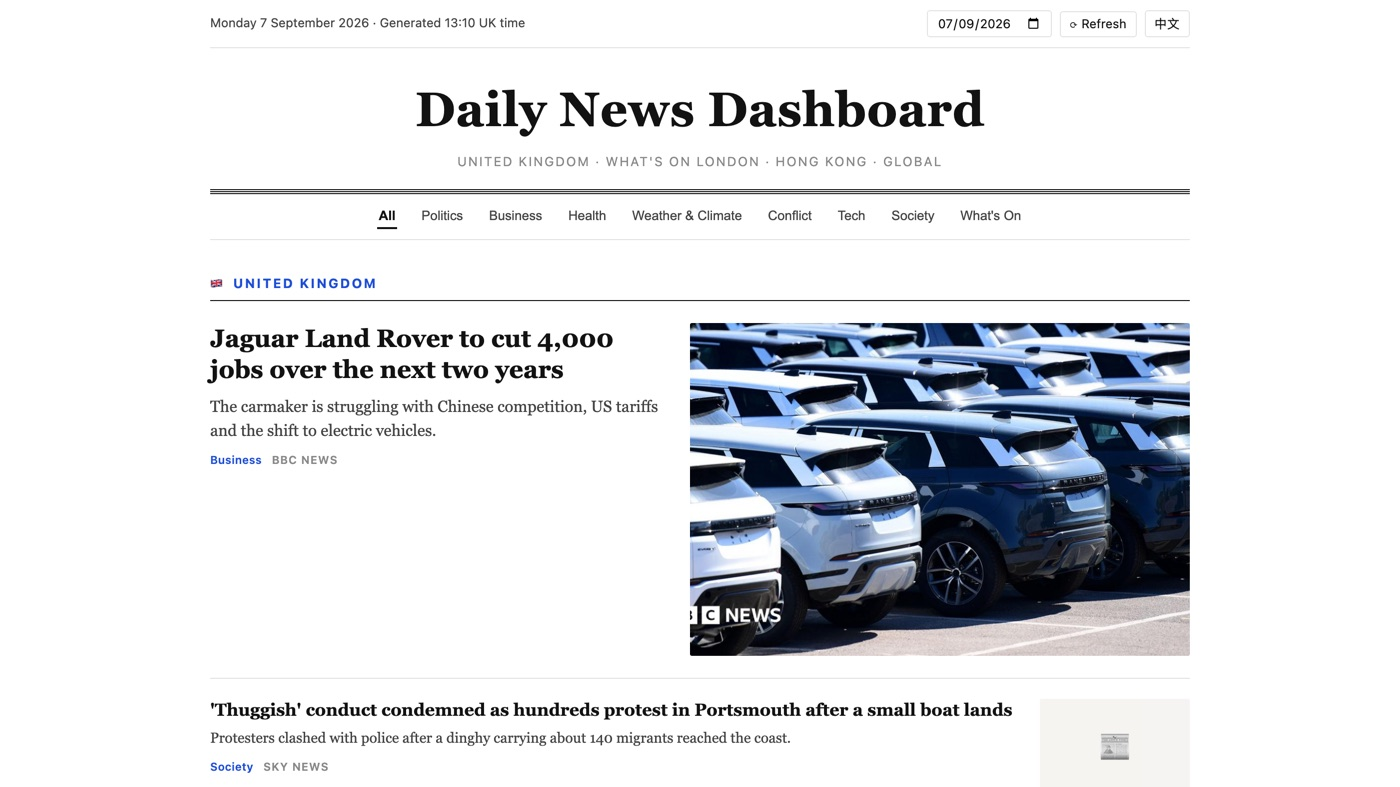
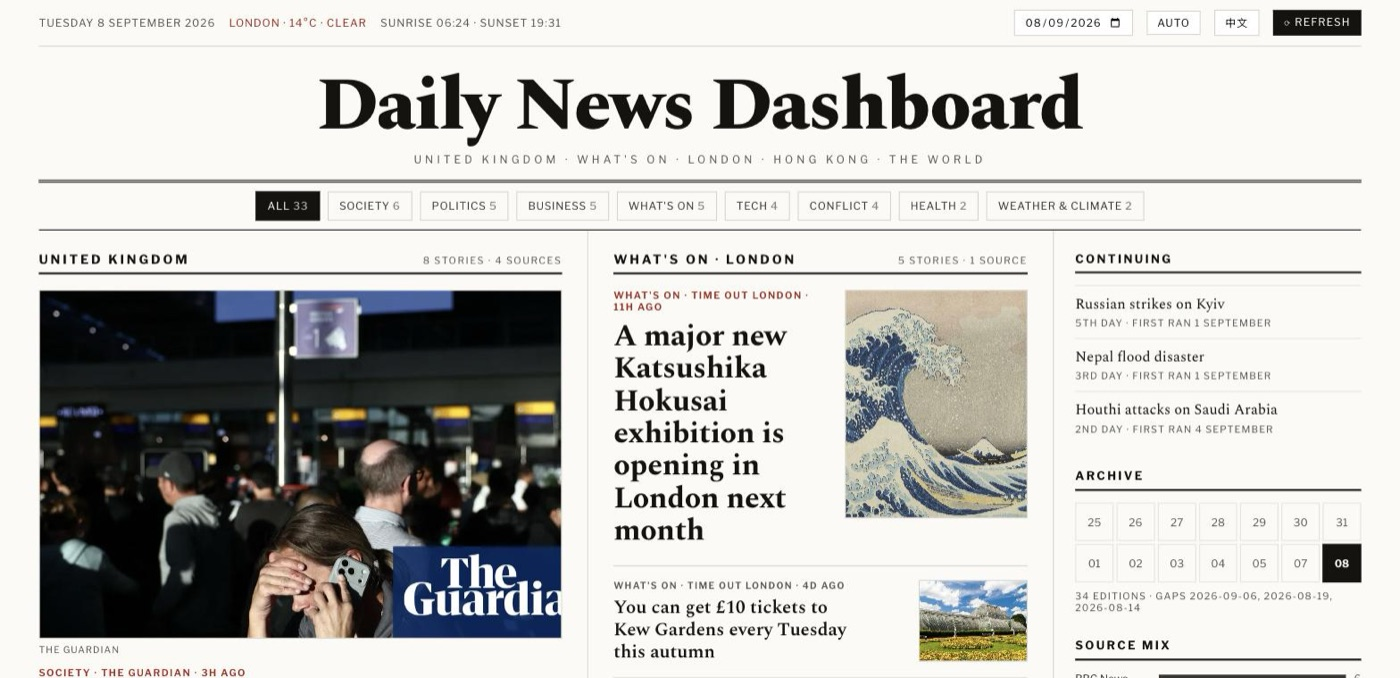
Lead the lab with Daily News Dashboard and refresh its case study
Moves the project to first position in both row lists -- the homepage and
lab/index.html -- and rewrites the write-up, which still described the
version where an agent generated the HTML directly.

What the page now says, because it is what the project now does: the model
writes a data.json and a Python renderer owns the layout; the run is bounded
by a wrapper after a prompt-level budget failed to hold it; the feed list is
verified rather than assumed; and the language toggle swaps every string on
the page rather than only the headlines.

Screenshots reshot from the current build. The two old ones showed a layout
that no longer exists, so they are replaced by the pair that carries the
story -- the same front page in Cantonese, and dark mode.

Claude-Session: https://claude.ai/code/session_01HESUztAjVSrEvrskq8Na69

diff --git a/index.html b/index.html
@@ -1157,6 +1157,13 @@ height="0" width="0" style="display:none;visibility:hidden"></iframe></noscript>
 
           <div class="rows-head" aria-hidden="true"><span></span><span></span><span>Name</span><span>Kind</span><span>Where</span></div>
           <ul class="rows">
+            <li><button type="button" class="row" data-cat="lab" data-open="lab-dailynews">
+              <span class="row-dot" aria-hidden="true"></span>
+              <span class="row-thumb"><img loading="lazy" decoding="async" src="assets/img/cs/lab-dailynews-front.jpg" alt=""></span>
+              <span class="row-name">Daily News Dashboard <small>A morning paper that writes itself at 08:00 — bilingual, and rebuilt from data rather than re-improvised each day</small></span>
+              <span class="row-kind">Project</span>
+              <span class="row-where">Local</span>
+            </button></li>
             <li><button type="button" class="row" data-cat="lab" data-open="lab-askmaria">
               <span class="row-dot" aria-hidden="true"></span>
               <span class="row-thumb"><img loading="lazy" decoding="async" src="assets/img/cs/lab-askmaria-hero.jpg" alt=""></span>
@@ -1184,13 +1191,6 @@ height="0" width="0" style="display:none;visibility:hidden"></iframe></noscript>
               <span class="row-name">Attune <small>Sound healing trained in Nepal, turned into a membership worth paying for</small></span>
               <span class="row-kind">Project</span>
               <span class="row-where">Pre-launch</span>
-            </button></li>
-            <li><button type="button" class="row" data-cat="lab" data-open="lab-dailynews">
-              <span class="row-dot" aria-hidden="true"></span>
-              <span class="row-thumb"><img loading="lazy" decoding="async" src="assets/img/cs/lab-dailynews-front.jpg" alt=""></span>
-              <span class="row-name">Daily News Dashboard <small>One screen for the morning read — sources, sections, what changed overnight</small></span>
-              <span class="row-kind">Project</span>
-              <span class="row-where">Local</span>
             </button></li>
           </ul>
 
@@ -2075,18 +2075,18 @@ height="0" width="0" style="display:none;visibility:hidden"></iframe></noscript>
     <h2>Daily News Dashboard</h2>
     <p class="doc-client">Bilingual EN/<span lang="yue">粵語</span> newspaper-style briefing covering UK, London, Hong Kong and Global, rebuilt every morning.</p>
 
-    <dl class="doc-meta"><div><dt>Stack</dt><dd>Generated HTML + Python stdlib server</dd></div><div><dt>Runs at</dt><dd>127.0.0.1:8793</dd></div><div><dt>Schedule</dt><dd>08:00 daily via launchd</dd></div></dl>
+    <dl class="doc-meta"><div><dt>Stack</dt><dd>Claude Code skill &rarr; data.json &rarr; Python renderer</dd></div><div><dt>Runs at</dt><dd>127.0.0.1:8793</dd></div><div><dt>Schedule</dt><dd>08:00 daily via launchd</dd></div></dl>
 
     <img loading="lazy" decoding="async" class="doc-hero" src="assets/img/cs/lab-dailynews-front.jpg" alt="">
 
     <h3>Background</h3>
-    <p>A daily news page written for one reader. It weights London first, keeps a Hong Kong section, and presents everything in an NYT-style layout with a Cantonese toggle.</p>
+    <p>A daily paper written for one reader. It weights London first, keeps a Hong Kong section alongside UK and Global, and reads as a broadsheet rather than a feed &mdash; in English or Cantonese, at a tap.</p>
 
     <h3>How it works</h3>
-    <ul class="doc-list"><li><strong>Generated, not fetched live</strong> — a scheduled job builds the page each morning at 08:00 and writes a dated archive, so opening it is instant and it still works offline.</li><li><strong>Sourced</strong> — headlines come from BBC, Guardian, HKFP and RTHK feeds, with a Reddit buzz strip and a What's On London section.</li><li><strong>Refresh on demand</strong> — a button re-runs the generation without leaving the page.</li></ul>
+    <ul class="doc-list"><li><strong>The model writes the content, code writes the layout</strong> &mdash; an agent gathers the day&rsquo;s stories and emits a <code>data.json</code>; a Python renderer owns every layout decision. Changing the design used to mean editing a prose spec and paying for a ten-minute generation to find out what it did. It now renders in milliseconds from yesterday&rsquo;s data, and the same way twice.</li><li><strong>Bounded, because it once wasn&rsquo;t</strong> &mdash; an edit asking the agent to keep re-checking sources turned an eight-minute job into five consecutive runs of three to seventeen hours, unnoticed for five days. A budget written in a prompt is advisory; the wrapper that replaced it enforces a hard timeout that kills the whole process group, a lock against overlapping runs, and a dead-man&rsquo;s switch &mdash; the only thing that catches a job that never started at all.</li><li><strong>Thirty feeds, each one verified</strong> &mdash; sources are checked rather than assumed, and the dead ones are written down so no run pays to retry them. Category-specific feeds exist so every filter chip has something behind it.</li><li><strong>Bilingual all the way down</strong> &mdash; every headline, summary, category, label and status line exists in both languages, so the toggle swaps the page rather than only the headlines.</li></ul>
 
     <h3>Screens</h3>
-    <figure class="doc-figure"><img loading="lazy" decoding="async" src="assets/img/cs/lab-dailynews-london.jpg" alt="What's On London section"><figcaption>What's On London section</figcaption></figure><figure class="doc-figure"><img loading="lazy" decoding="async" src="assets/img/cs/lab-dailynews-scroll.jpg" alt="Hong Kong and Global coverage further down the page"><figcaption>Hong Kong and Global coverage further down the page</figcaption></figure>
+    <figure class="doc-figure"><img loading="lazy" decoding="async" src="assets/img/cs/lab-dailynews-zh.jpg" alt="The same front page rendered in Cantonese, with headlines, summaries and interface labels all switched"><figcaption>The same page in Cantonese &mdash; every string swaps, not just the headlines</figcaption></figure><figure class="doc-figure"><img loading="lazy" decoding="async" src="assets/img/cs/lab-dailynews-dark.jpg" alt="The dashboard in dark mode, a warm near-black sheet with off-white type"><figcaption>Dark mode &mdash; following the system, or forced from the toolbar</figcaption></figure>
     <div class="doc-links"><span class="local-note" data-local-host="127.0.0.1" data-local-port="8793">Runs on my machine — <code>127.0.0.1:8793</code> resolves there only.</span></div>
       </div>
     </section>

diff --git a/lab/daily-news/index.html b/lab/daily-news/index.html
@@ -84,18 +84,18 @@ height="0" width="0" style="display:none;visibility:hidden"></iframe></noscript>
     <h2>Daily News Dashboard</h2>
     <p class="doc-client">Bilingual EN/<span lang="yue">粵語</span> newspaper-style briefing covering UK, London, Hong Kong and Global, rebuilt every morning.</p>
 
-    <dl class="doc-meta"><div><dt>Stack</dt><dd>Generated HTML + Python stdlib server</dd></div><div><dt>Runs at</dt><dd>127.0.0.1:8793</dd></div><div><dt>Schedule</dt><dd>08:00 daily via launchd</dd></div></dl>
+    <dl class="doc-meta"><div><dt>Stack</dt><dd>Claude Code skill &rarr; data.json &rarr; Python renderer</dd></div><div><dt>Runs at</dt><dd>127.0.0.1:8793</dd></div><div><dt>Schedule</dt><dd>08:00 daily via launchd</dd></div></dl>
 
     <img loading="lazy" decoding="async" class="doc-hero" src="../../assets/img/cs/lab-dailynews-front.jpg" alt="">
 
     <h3>Background</h3>
-    <p>A daily news page written for one reader. It weights London first, keeps a Hong Kong section, and presents everything in an NYT-style layout with a Cantonese toggle.</p>
+    <p>A daily paper written for one reader. It weights London first, keeps a Hong Kong section alongside UK and Global, and reads as a broadsheet rather than a feed &mdash; in English or Cantonese, at a tap.</p>
 
     <h3>How it works</h3>
-    <ul class="doc-list"><li><strong>Generated, not fetched live</strong> — a scheduled job builds the page each morning at 08:00 and writes a dated archive, so opening it is instant and it still works offline.</li><li><strong>Sourced</strong> — headlines come from BBC, Guardian, HKFP and RTHK feeds, with a Reddit buzz strip and a What's On London section.</li><li><strong>Refresh on demand</strong> — a button re-runs the generation without leaving the page.</li></ul>
+    <ul class="doc-list"><li><strong>The model writes the content, code writes the layout</strong> &mdash; an agent gathers the day&rsquo;s stories and emits a <code>data.json</code>; a Python renderer owns every layout decision. Changing the design used to mean editing a prose spec and paying for a ten-minute generation to find out what it did. It now renders in milliseconds from yesterday&rsquo;s data, and the same way twice.</li><li><strong>Bounded, because it once wasn&rsquo;t</strong> &mdash; an edit asking the agent to keep re-checking sources turned an eight-minute job into five consecutive runs of three to seventeen hours, unnoticed for five days. A budget written in a prompt is advisory; the wrapper that replaced it enforces a hard timeout that kills the whole process group, a lock against overlapping runs, and a dead-man&rsquo;s switch &mdash; the only thing that catches a job that never started at all.</li><li><strong>Thirty feeds, each one verified</strong> &mdash; sources are checked rather than assumed, and the dead ones are written down so no run pays to retry them. Category-specific feeds exist so every filter chip has something behind it.</li><li><strong>Bilingual all the way down</strong> &mdash; every headline, summary, category, label and status line exists in both languages, so the toggle swaps the page rather than only the headlines.</li></ul>
 
     <h3>Screens</h3>
-    <figure class="doc-figure"><img loading="lazy" decoding="async" src="../../assets/img/cs/lab-dailynews-london.jpg" alt="What's On London section"><figcaption>What's On London section</figcaption></figure><figure class="doc-figure"><img loading="lazy" decoding="async" src="../../assets/img/cs/lab-dailynews-scroll.jpg" alt="Hong Kong and Global coverage further down the page"><figcaption>Hong Kong and Global coverage further down the page</figcaption></figure>
+    <figure class="doc-figure"><img loading="lazy" decoding="async" src="../../assets/img/cs/lab-dailynews-zh.jpg" alt="The same front page rendered in Cantonese, with headlines, summaries and interface labels all switched"><figcaption>The same page in Cantonese &mdash; every string swaps, not just the headlines</figcaption></figure><figure class="doc-figure"><img loading="lazy" decoding="async" src="../../assets/img/cs/lab-dailynews-dark.jpg" alt="The dashboard in dark mode, a warm near-black sheet with off-white type"><figcaption>Dark mode &mdash; following the system, or forced from the toolbar</figcaption></figure>
     <div class="doc-links"><span class="local-note" data-local-host="127.0.0.1" data-local-port="8793">Runs on my machine — <code>127.0.0.1:8793</code> resolves there only.</span></div>
   </div>
 </main>

diff --git a/lab/index.html b/lab/index.html
@@ -99,6 +99,13 @@ height="0" width="0" style="display:none;visibility:hidden"></iframe></noscript>
 
           <div class="rows-head" aria-hidden="true"><span></span><span></span><span>Name</span><span>Kind</span><span>Where</span></div>
           <ul class="rows">
+            <li><a class="row" href="../lab/daily-news/">
+              <span class="row-dot" aria-hidden="true"></span>
+              <span class="row-thumb"><img loading="lazy" decoding="async" src="../assets/img/cs/lab-dailynews-front.jpg" alt=""></span>
+              <span class="row-name">Daily News Dashboard <small>A morning paper that writes itself at 08:00 — bilingual, and rebuilt from data rather than re-improvised each day</small></span>
+              <span class="row-kind">Project</span>
+              <span class="row-where">Local</span>
+            </a></li>
             <li><a class="row" href="../lab/ask-maria/">
               <span class="row-dot" aria-hidden="true"></span>
               <span class="row-thumb"><img loading="lazy" decoding="async" src="../assets/img/cs/lab-askmaria-hero.jpg" alt=""></span>
@@ -126,13 +133,6 @@ height="0" width="0" style="display:none;visibility:hidden"></iframe></noscript>
               <span class="row-name">Attune <small>Sound healing trained in Nepal, turned into a membership worth paying for</small></span>
               <span class="row-kind">Project</span>
               <span class="row-where">Pre-launch</span>
-            </a></li>
-            <li><a class="row" href="../lab/daily-news/">
-              <span class="row-dot" aria-hidden="true"></span>
-              <span class="row-thumb"><img loading="lazy" decoding="async" src="../assets/img/cs/lab-dailynews-front.jpg" alt=""></span>
-              <span class="row-name">Daily News Dashboard <small>One screen for the morning read — sources, sections, what changed overnight</small></span>
-              <span class="row-kind">Project</span>
-              <span class="row-where">Local</span>
             </a></li>
           </ul>
 
